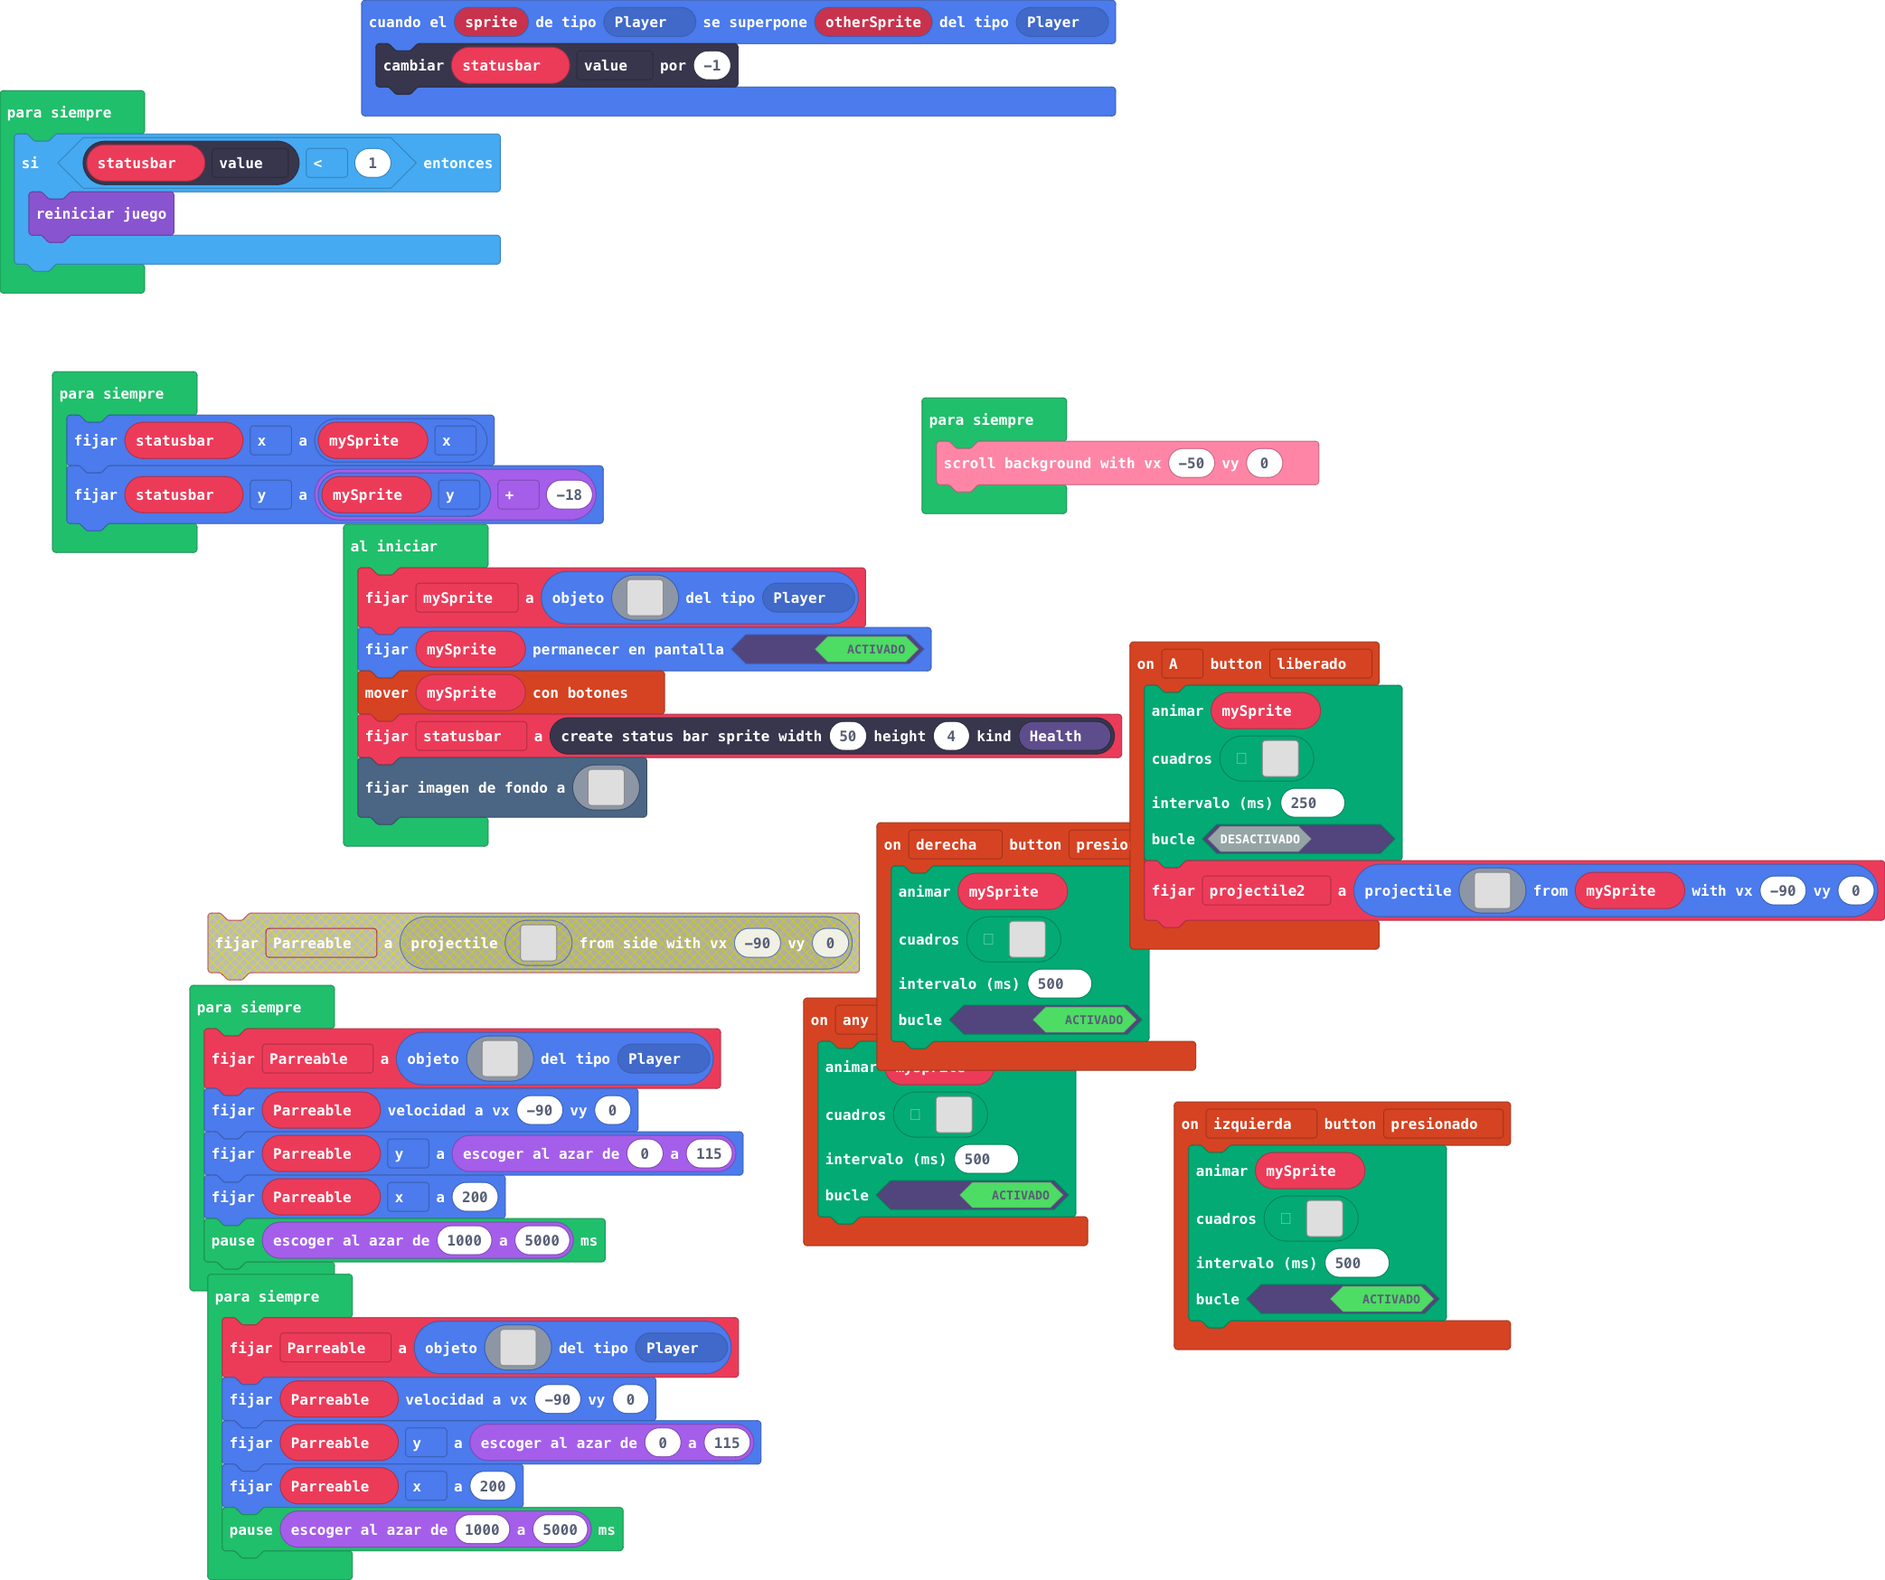
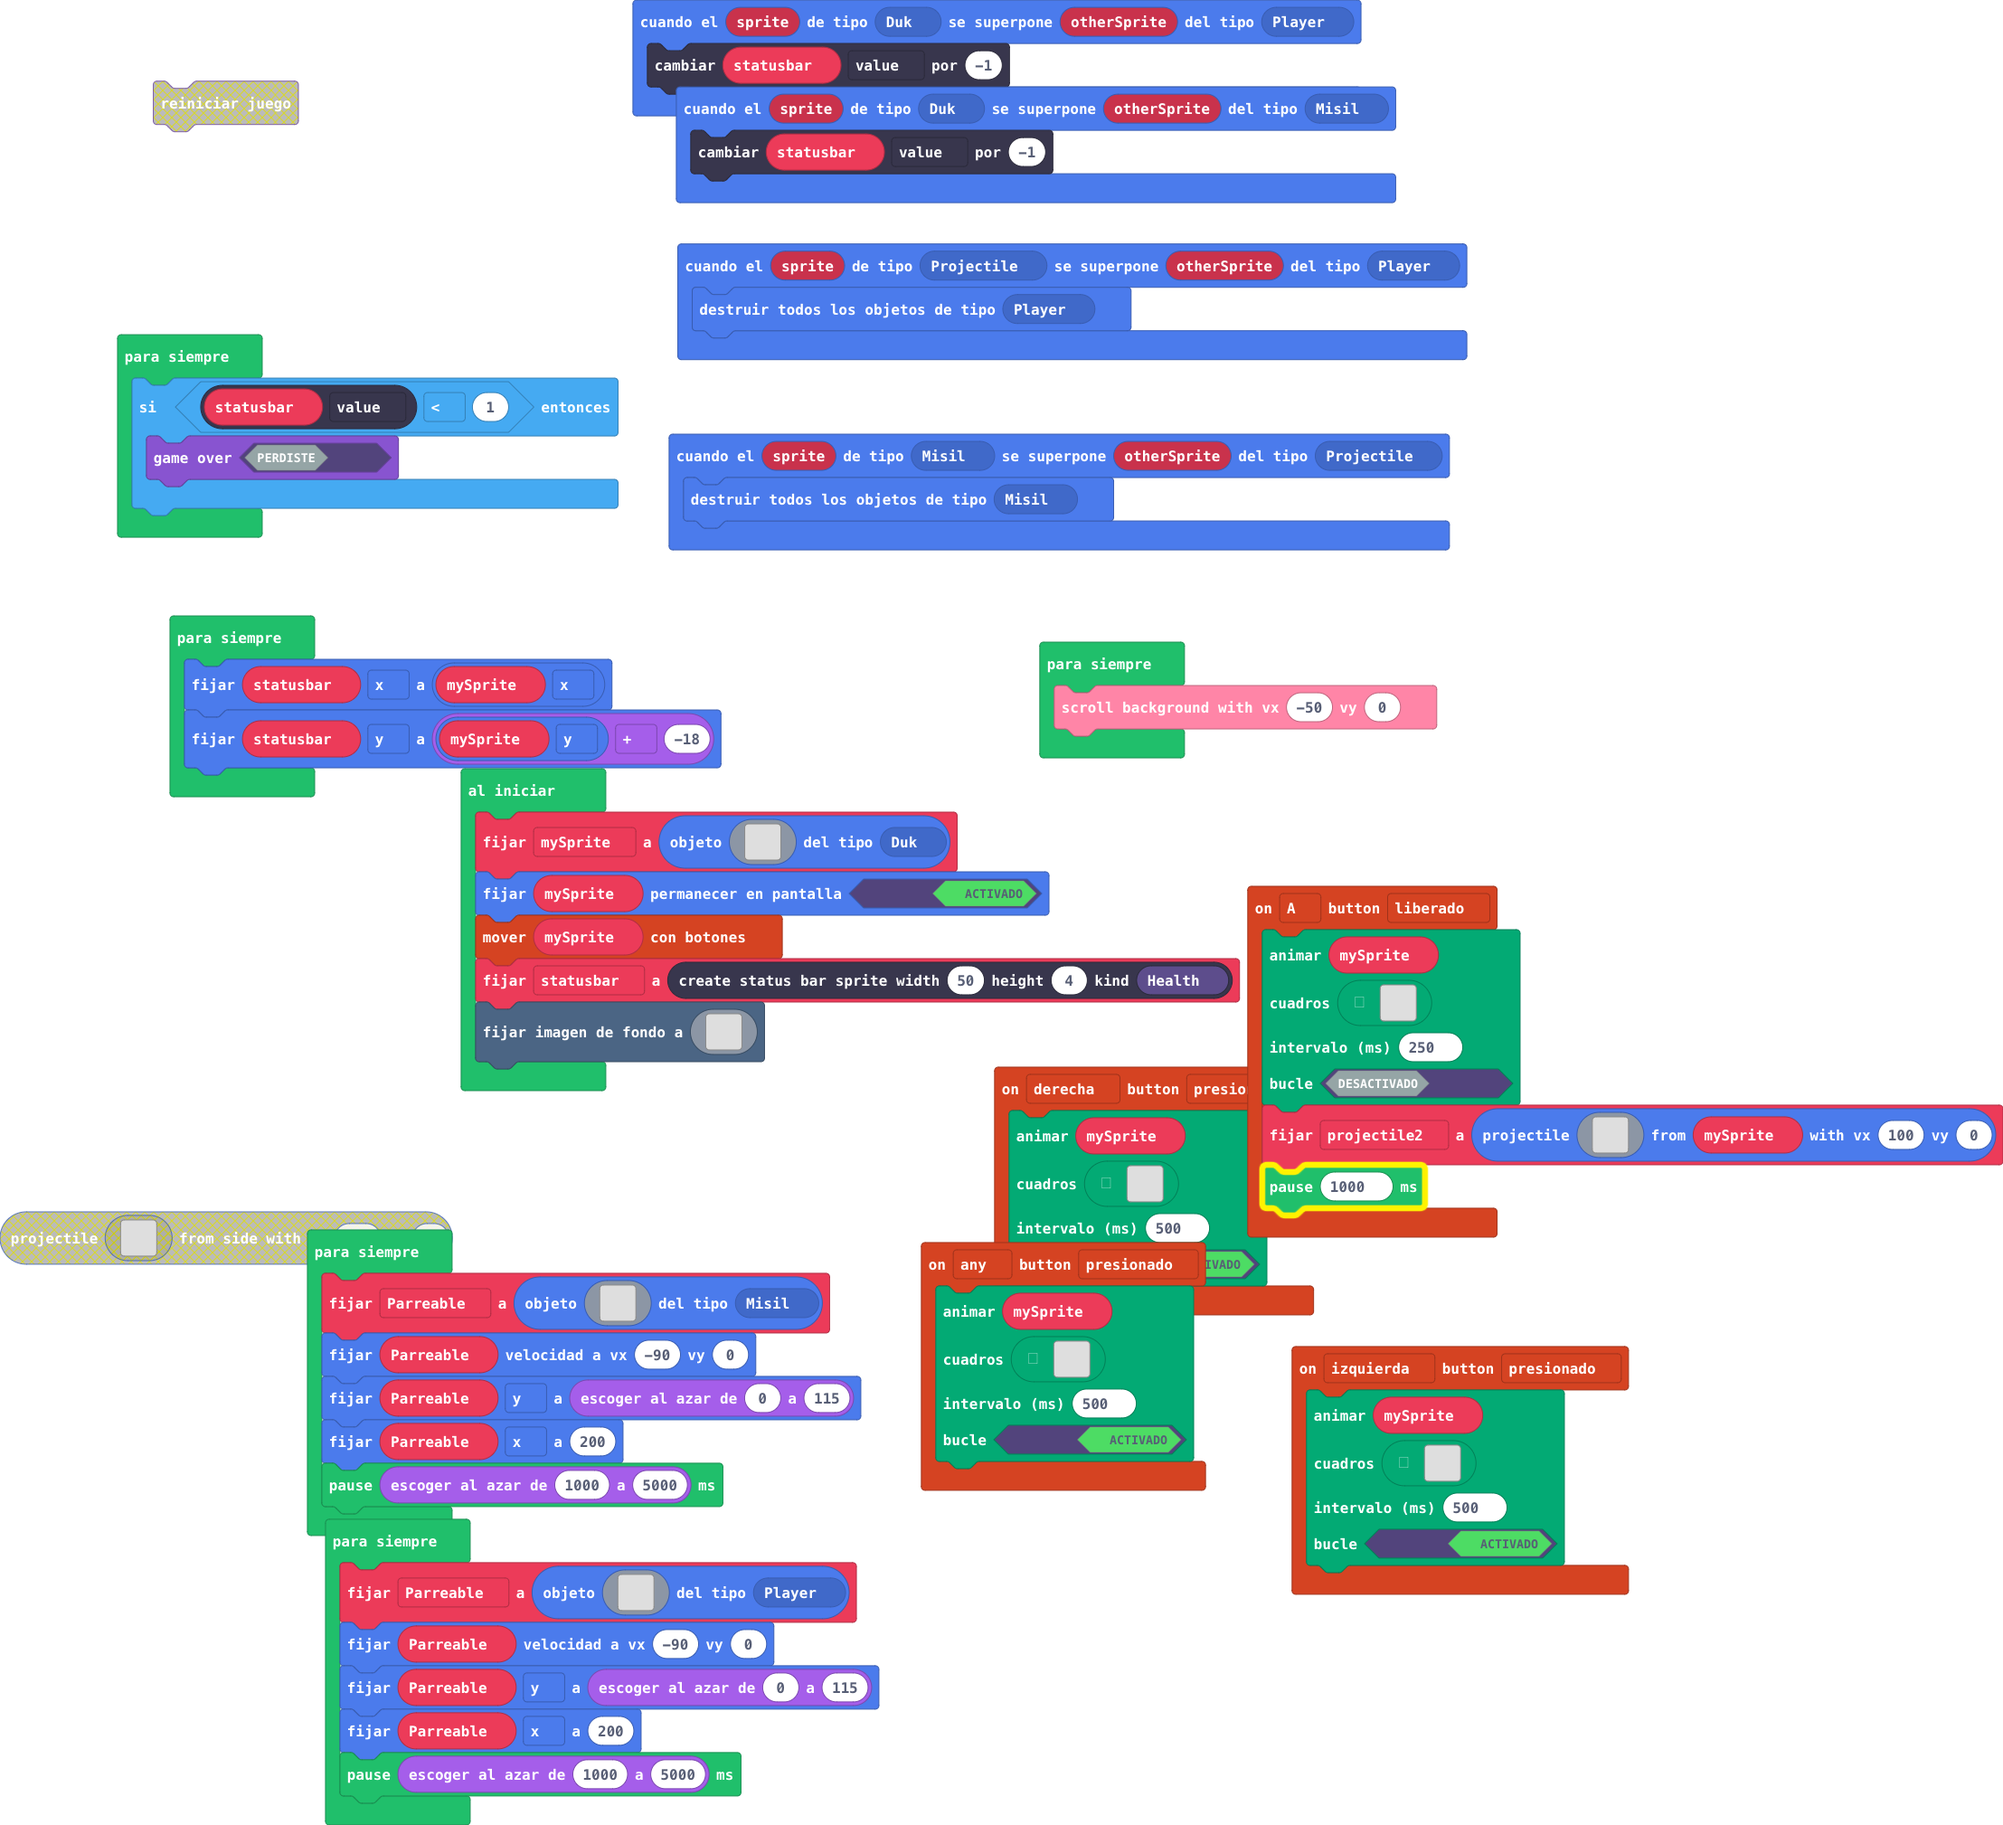
Actualizar main.blocks, main.ts

diff --git a/main.ts b/main.ts
@@ -1,3 +1,7 @@
+namespace SpriteKind {
+    export const Duk = SpriteKind.create()
+    export const Misil = SpriteKind.create()
+}
 controller.anyButton.onEvent(ControllerButtonEvent.Pressed, function () {
     animation.runImageAnimation(
     mySprite,
@@ -107,6 +111,9 @@ controller.anyButton.onEvent(ControllerButtonEvent.Pressed, function () {
     500,
     true
     )
+})
+sprites.onOverlap(SpriteKind.Projectile, SpriteKind.Player, function (sprite, otherSprite) {
+    sprites.destroyAllSpritesOfKind(SpriteKind.Player)
 })
 controller.right.onEvent(ControllerButtonEvent.Pressed, function () {
     animation.runImageAnimation(
@@ -311,6 +318,12 @@ controller.left.onEvent(ControllerButtonEvent.Pressed, function () {
     true
     )
 })
+sprites.onOverlap(SpriteKind.Misil, SpriteKind.Projectile, function (sprite, otherSprite) {
+    sprites.destroyAllSpritesOfKind(SpriteKind.Misil)
+})
+sprites.onOverlap(SpriteKind.Duk, SpriteKind.Player, function (sprite, otherSprite) {
+    statusbar.value += -1
+})
 controller.A.onEvent(ControllerButtonEvent.Released, function () {
     animation.runImageAnimation(
     mySprite,
@@ -369,9 +382,10 @@ controller.A.onEvent(ControllerButtonEvent.Released, function () {
         . . . . . . . . . . . . . . . . 
         . . . . . . . . . . . . . . . . 
         . . . . . . . . . . . . . . . . 
-        `, mySprite, -90, 0)
+        `, mySprite, 100, 0)
+    pause(1000)
 })
-sprites.onOverlap(SpriteKind.Player, SpriteKind.Player, function (sprite, otherSprite) {
+sprites.onOverlap(SpriteKind.Duk, SpriteKind.Misil, function (sprite, otherSprite) {
     statusbar.value += -1
 })
 let Parreable: Sprite = null
@@ -395,7 +409,7 @@ mySprite = sprites.create(img`
     . c 6 6 6 6 6 6 9 9 9 9 9 6 b . 
     . . c b 6 6 6 6 6 9 9 9 b b . . 
     . . . c c c c c c c c b b . . . 
-    `, SpriteKind.Player)
+    `, SpriteKind.Duk)
 mySprite.setStayInScreen(true)
 controller.moveSprite(mySprite)
 statusbar = statusbars.create(50, 4, StatusBarKind.Health)
@@ -523,7 +537,7 @@ scene.setBackgroundImage(img`
     `)
 forever(function () {
     if (statusbar.value < 1) {
-        game.reset()
+        game.gameOver(false)
     }
 })
 forever(function () {
@@ -551,7 +565,7 @@ forever(function () {
         ..........fcccf.........
         ...........fccf.........
         ............fff.........
-        `, SpriteKind.Player)
+        `, SpriteKind.Misil)
     Parreable.setVelocity(-90, 0)
     Parreable.y = randint(0, 115)
     Parreable.x = 200
